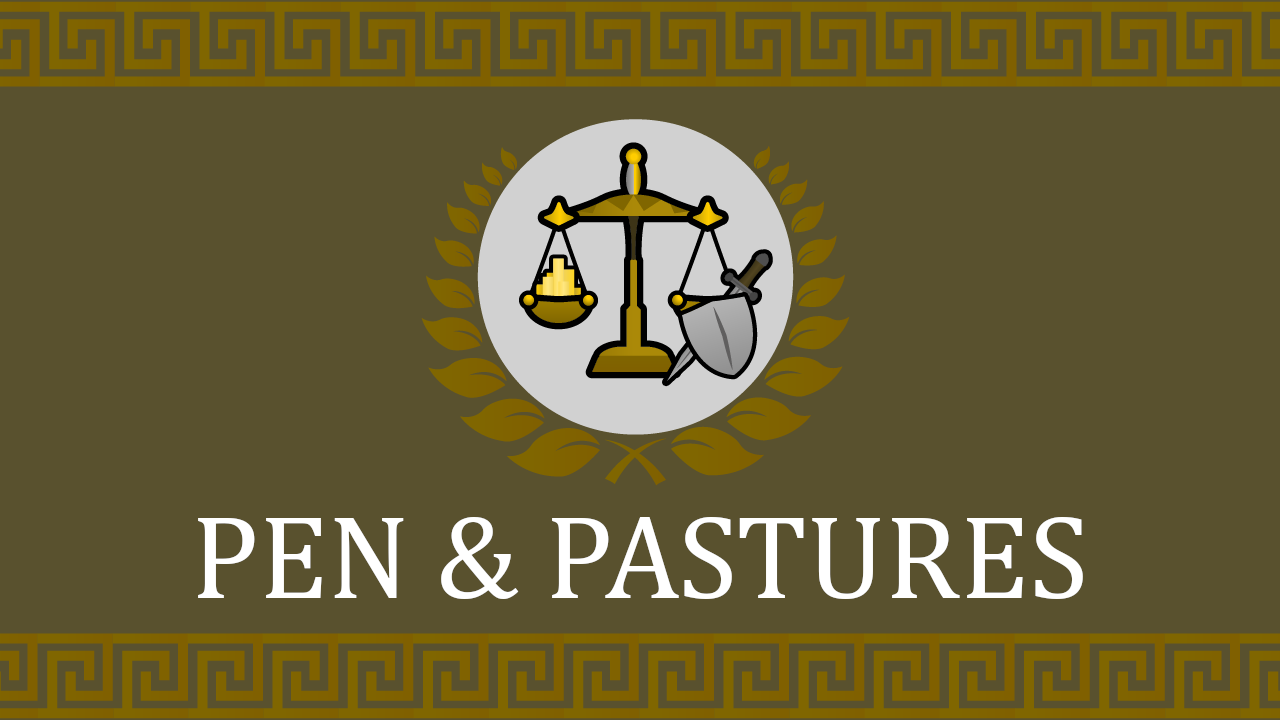
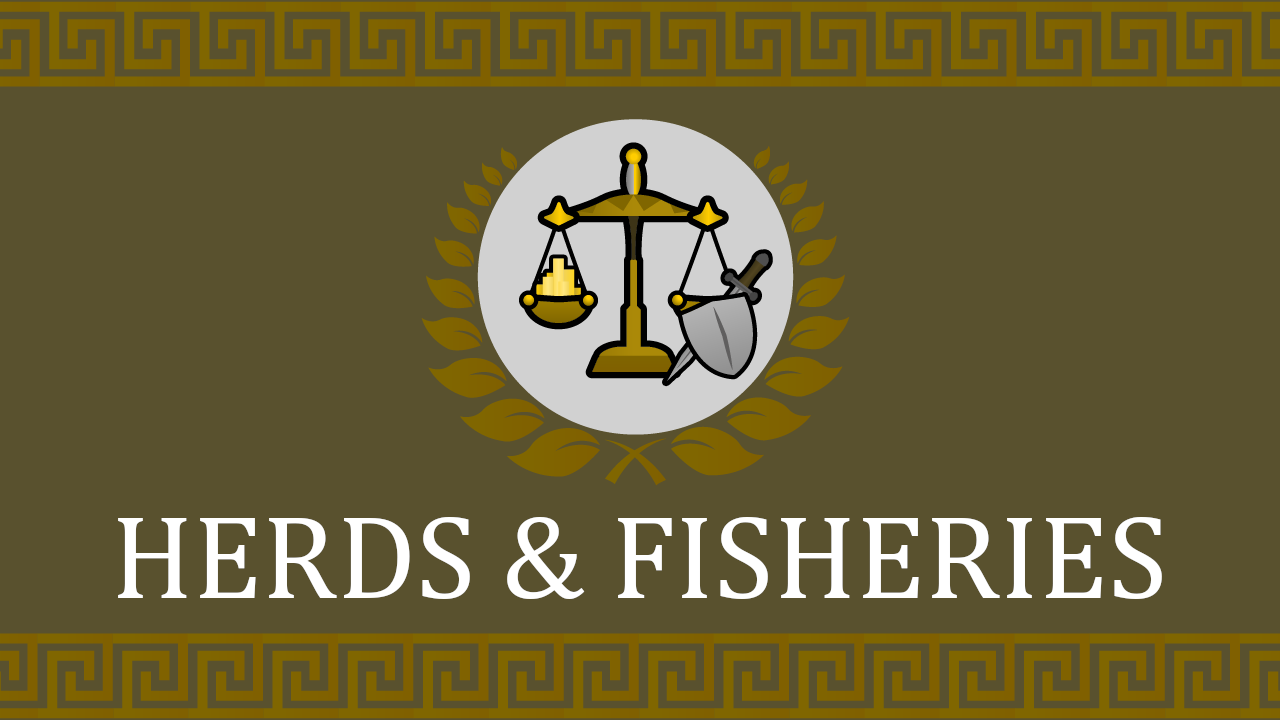
0.2.0 - Patch notes & README

Changed region(s): [[0.0938, 0.7028, 0.9062, 0.8556]]

diff --git a/README.md b/README.md
@@ -1,0 +1,16 @@
+# Empire Refactored: Herds & Fisheries
+
+Did you know that rare and exotic animals just sprout from the ground? No? Yeah, me neither. Yet in Empire Refactored, with just a bit of patience, you can get your own thrumbos for free from high-animal-production settlements.
+
+Bit silly, isn't it?
+
+Enter **Empire Refactored: Herds & Fisheries**. With this mod, animals (beyond the barnyard basics) are no longer free. In order to tithe animal products or livestock from a settlement, you have to first send a breeding pair of that animal. You want your settlement to send you mink leather? Better find and tame a male and female mink. You want a huge force of attack wargs? You'll need to send them over to your settlement first!
+
+Fishing is affected differently - settlements only have access to fish if they're located on a river, lakeshore, or coast. And even then, they'll only have access to the appropriate fish of their biome.
+
+And, to top it all off - if a settlement doesn't have access to *any* live animals, then its animal resource production is zeroed out.
+
+Time to get ranching!
+
+## Dependencies
+**Depends on [Empire Refactored: Routes & Resources](https://github.com/matathias/Empire-Routes_and_Resources)**.